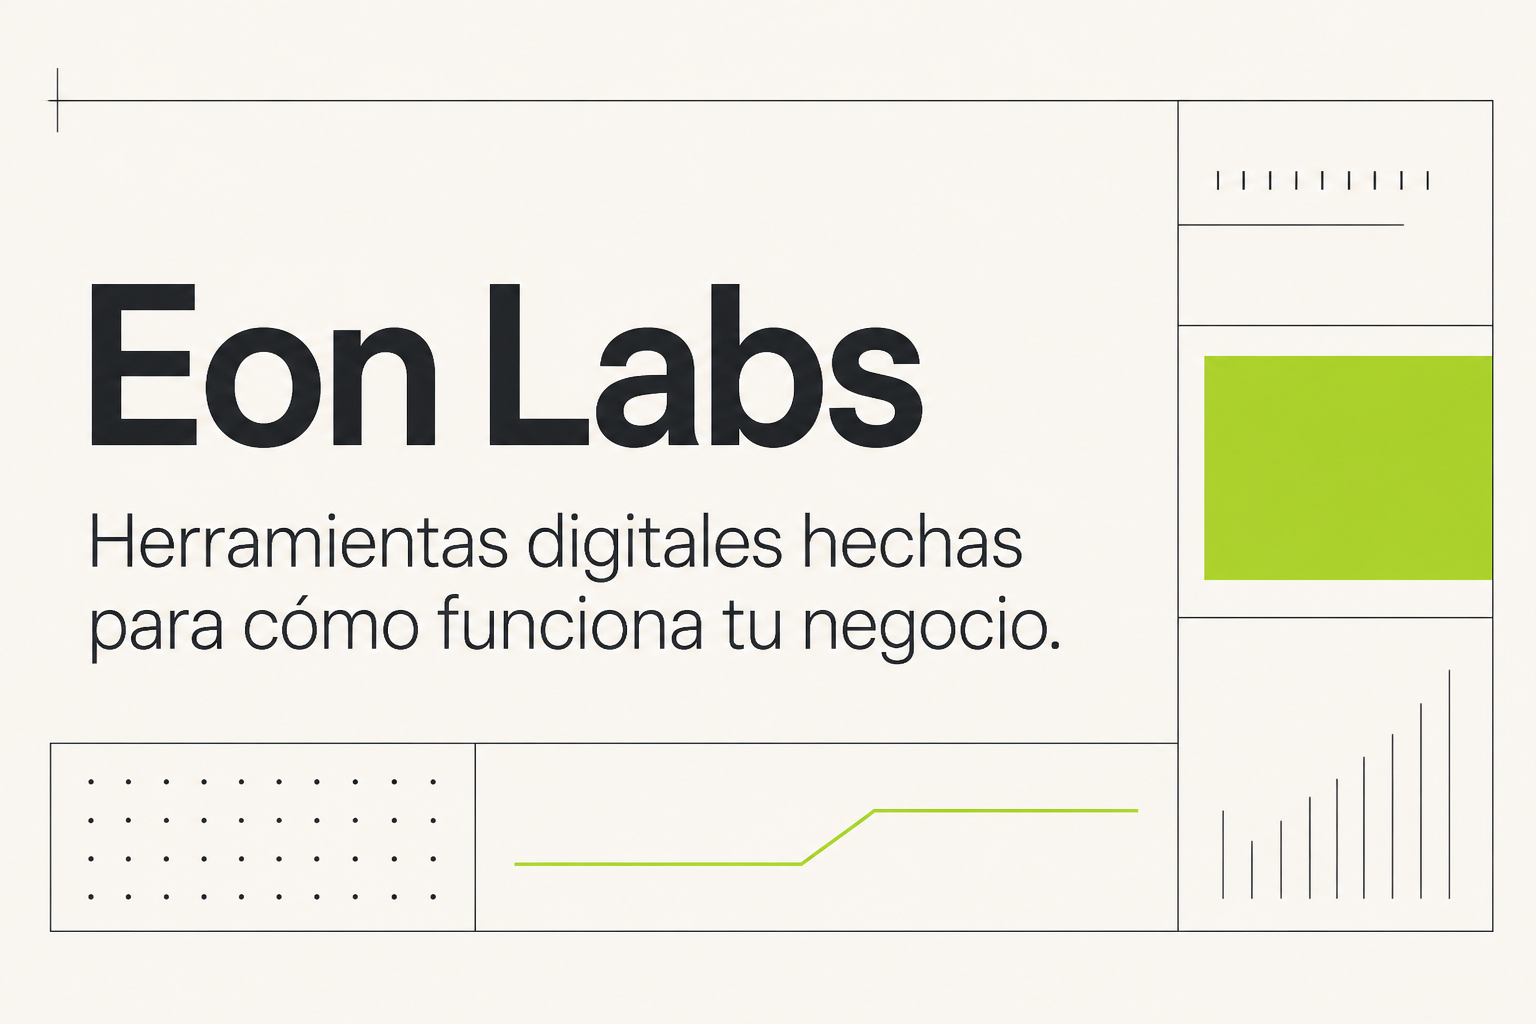
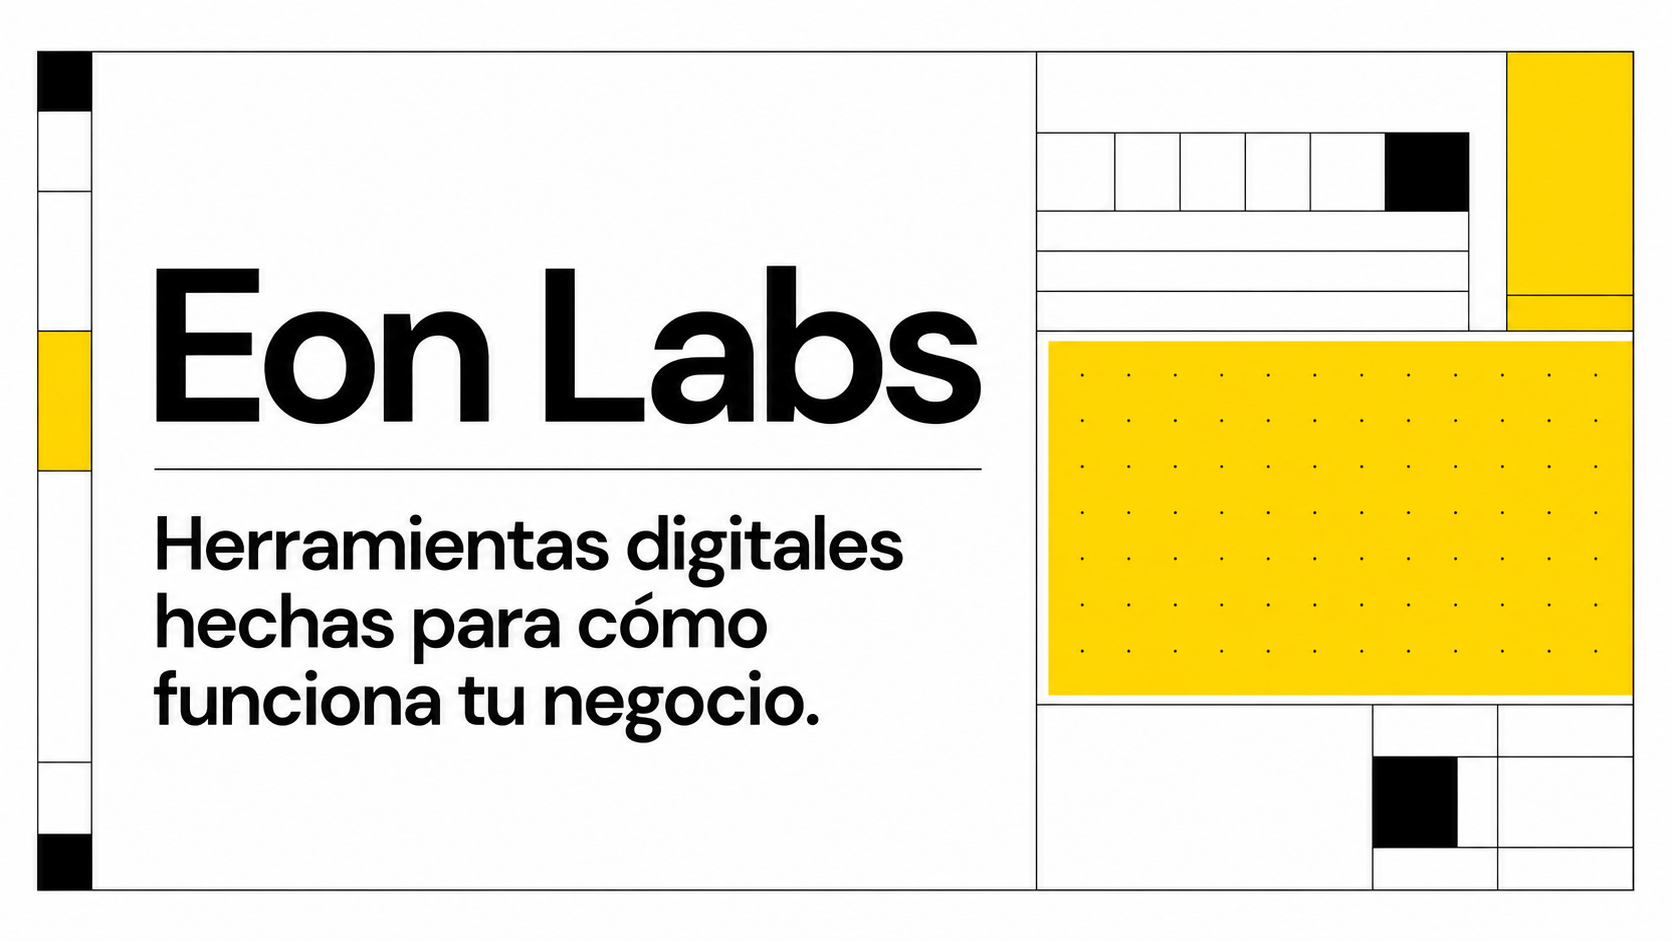
Refine Eon Labs visual system and messaging

diff --git a/frontend/src/pages/HomePage.tsx b/frontend/src/pages/HomePage.tsx
@@ -3,6 +3,7 @@ import { Link } from "react-router-dom";
 import { HeroPreview } from "../components/ProductPreview";
 import { ProjectCard } from "../components/ProjectCard";
 import { Seo } from "../components/Seo";
+import { siteConfig } from "../config";
 import { projects } from "../data/projects";
 
 const capabilities = [
@@ -14,9 +15,9 @@ const capabilities = [
 ] as const;
 
 const packages = [
-  { name: "Base", description: "Una herramienta concreta para resolver un problema definido.", need: "Cuando el alcance está claro", items: ["Primera versión útil", "Flujo principal", "Puesta en marcha"] },
-  { name: "Adaptado", description: "Partimos de una solución de Eon y la ajustamos al negocio.", need: "Cuando una demo se parece a lo que necesitas", items: ["Base existente", "Campos y etapas propias", "Ajustes al uso real"] },
-  { name: "A medida", description: "Entendemos el proceso y diseñamos una herramienta específicamente para él.", need: "Cuando el proceso necesita una solución propia", items: ["Descubrimiento del proceso", "Diseño específico", "Evolución por uso"] },
+  { name: "Base", description: "Partimos de un problema ya definido y construimos una herramienta concreta para resolverlo.", need: "Un problema ya definido", items: ["Primera versión útil", "Flujo principal", "Puesta en marcha"] },
+  { name: "Adaptado", description: "Del demo a tu negocio.", need: "Una base que ya encaja", items: ["Base existente", "Campos y etapas propias", "Ajustes al uso real"] },
+  { name: "A medida", description: "Entendemos el proceso a detalle y construimos en base a ello.", need: "Un proceso propio", items: ["Descubrimiento del proceso", "Diseño específico", "Evolución por uso"] },
 ];
 
 export function HomePage() {
@@ -29,19 +30,19 @@ export function HomePage() {
       </div><HeroPreview/>
     </section>
     <section className="section-pad section-block">
-      <div className="section-heading split-heading"><div><p className="eyebrow">SHOWROOM · DEMOS EON</p><h2>Interfaces concretas.<br/>Problemas reconocibles.</h2></div><div><p>No necesitas saber qué software pedir. Empieza por una herramienta parecida a lo que hoy organizas entre Excel, WhatsApp, notas y memoria.</p><Link className="text-link" to="/showroom">Ver todo el showroom</Link></div></div>
+      <div className="section-heading split-heading"><div><p className="eyebrow">SHOWROOM</p><h2>Showroom de servicios.</h2></div><div><p>No necesitas saber qué software pedir. Empieza por una herramienta parecida a lo que hoy organizas entre Excel, WhatsApp, notas y memoria.</p><Link className="text-link" to="/showroom">Ver todo el showroom</Link></div></div>
       <div className="project-grid bento-grid">{projects.slice(0, 4).map((project, index) => <ProjectCard key={project.slug} project={project} featured={index === 0}/>)}</div>
     </section>
     <section id="soluciones" className="section-pad section-block">
       <div className="section-heading"><p className="eyebrow">QUÉ PODEMOS CONSTRUIR</p><h2>Capacidades para ordenar, conectar y hacer avanzar el trabajo.</h2></div>
       <div className="capability-grid">{capabilities.map(([Icon, title, text], index) => <article key={title}><span className="cap-number">{String(index + 1).padStart(2, "0")}</span><Icon/><h3>{title}</h3><p>{text}</p></article>)}</div>
     </section>
-    <section id="proceso" className="dark-section"><div className="section-pad section-block"><div className="section-heading split-heading"><div><p className="eyebrow">CÓMO TRABAJAMOS</p><h2>De un proceso difuso a una herramienta útil.</h2></div><p>Partimos de cómo funciona el negocio ahora y construimos solo lo que merece existir.</p></div>
-      <ol className="process-list">{["Entendemos cómo trabajas", "Definimos qué vale la pena construir", "Creamos una primera versión", "La adaptamos al uso real"].map((item, index) => <li key={item}><span>{String(index + 1).padStart(2, "0")}</span><strong>{item}</strong></li>)}</ol><Link className="button button-light" to="/como-trabajamos">Ver el proceso <ArrowRight size={17}/></Link>
+    <section id="proceso" className="dark-section"><div className="section-pad section-block"><div className="section-heading split-heading"><div><p className="eyebrow">OPERACIÓN DE TRABAJO</p><h2>Un sistema operativo para construir, probar y mejorar.</h2></div><p>Trabajamos sobre procesos, responsables, datos y criterios claros. Cada ciclo deja una versión utilizable y decisiones documentadas.</p></div>
+      <ol className="process-list">{["Mapeamos el flujo actual", "Priorizamos el cuello de botella", "Ponemos una versión en operación", "Medimos, ajustamos y documentamos"].map((item, index) => <li key={item}><span>{String(index + 1).padStart(2, "0")}</span><strong>{item}</strong></li>)}</ol><Link className="button button-light" to="/como-trabajamos">Ver la operación <ArrowRight size={17}/></Link>
     </div></section>
-    <section id="paquetes" className="section-pad section-block"><div className="section-heading"><p className="eyebrow">FORMAS DE EMPEZAR</p><h2>El enfoque depende del problema, no de un plan cerrado.</h2><p>Sin precios prefabricados. Primero entendemos el alcance y recomendamos una forma de trabajo.</p></div>
+    <section id="paquetes" className="section-pad section-block"><div className="section-heading"><p className="eyebrow">PLANES DE TRABAJO</p><h2>Planes de trabajo.</h2></div>
       <div className="package-grid">{packages.map((item) => <article key={item.name} className="package-card"><span className="category-badge">{item.need}</span><h3>{item.name}</h3><p>{item.description}</p><ul>{item.items.map((feature) => <li key={feature}><CheckCircle2/>{feature}</li>)}</ul><Link className="card-link" to={`/empezar?paquete=${encodeURIComponent(item.name.toLowerCase())}`}>Empezar por aquí <ArrowRight size={16}/></Link></article>)}</div>
     </section>
-    <section className="final-cta section-pad"><p className="eyebrow">PRIMER PASO</p><h2>¿Tienes un proceso que todavía depende de Excel, WhatsApp o memoria?</h2><div className="button-row"><Link className="button button-accent" to="/empezar">Cuéntanos cómo trabajas <ArrowRight size={18}/></Link><Link className="text-link" to="/empezar">Prefiero empezar con un brief</Link></div></section>
+    <section className="final-cta section-pad"><p className="eyebrow">PRIMER PASO</p><h2>¿Te interesa empezar a colaborar?</h2><div className="button-row"><Link className="button button-accent" to="/empezar">Cuéntanos cómo trabajas <ArrowRight size={18}/></Link>{siteConfig.whatsappNumber ? <a className="text-link" href={`https://wa.me/${siteConfig.whatsappNumber}?text=${encodeURIComponent("Hola Eon Labs. Me interesa empezar a colaborar.")}`}>Hablar por WhatsApp</a> : <Link className="text-link" to="/empezar?canal=whatsapp">Hablar por WhatsApp</Link>}</div></section>
   </>;
 }

diff --git a/frontend/src/styles.css b/frontend/src/styles.css
@@ -22,3 +22,16 @@
 @media(max-width:1080px){.capability-grid{grid-template-columns:repeat(3,1fr)}.intake-shell{gap:40px}.detail-content .detail-lead{grid-template-columns:1fr}.site-footer{grid-template-columns:1fr 1fr}.site-footer>div:first-child{grid-column:1/-1}}
 @media(max-width:800px){.section-block{padding-top:72px;padding-bottom:72px}.split-heading,.detail-content,.intake-shell{grid-template-columns:1fr;gap:24px}.project-grid,.showroom-grid,.package-grid,.related-grid{grid-template-columns:1fr}.bento-grid .featured-card{grid-column:auto}.capability-grid{grid-template-columns:repeat(2,1fr)}.process-list{grid-template-columns:1fr 1fr}.compact-cta{align-items:flex-start;flex-direction:column;padding:36px}.detail-heading{align-items:flex-start;flex-direction:column;margin-top:40px}.detail-content .detail-lead,.two-column-info{grid-template-columns:1fr}.detail-content>article{min-height:auto;padding:48px 0;border-right:0}.two-column-info{gap:32px}.intake-aside{position:static}.intake-aside .eyebrow{margin-top:40px}.wizard-card{min-height:auto}.site-footer{grid-template-columns:1fr 1fr}.footer-bottom{flex-direction:column}.solution-list article,.work-steps article{grid-template-columns:55px 1fr}.package-note p{display:block;margin:10px 0}.final-cta{padding:48px 32px}}
 @media(max-width:640px){.section-heading h2,.page-hero h1{font-size:40px}.hero h1{font-size:46px}.project-card{padding:18px}.project-card .product-window{margin-left:-4px;margin-right:-4px}.capability-grid{grid-template-columns:1fr}.capability-grid article{min-height:170px}.process-list{grid-template-columns:1fr}.process-list li{min-height:140px}.site-footer{grid-template-columns:1fr}.site-footer>div:first-child{grid-column:auto}.site-footer nav{padding-top:20px;border-top:1px solid var(--line)}.footer-bottom{grid-column:auto}.page-hero{padding-top:72px;padding-bottom:48px}.detail-heading h1{font-size:48px}.detail-content h2{font-size:30px}.intake-shell{padding-top:36px}.intake-aside h1{font-size:44px}.wizard-card{padding:24px}.wizard-card legend,.review h2{font-size:28px}.choice-grid{grid-template-columns:1fr}.solution-list article,.work-steps article{grid-template-columns:1fr;gap:12px}.solution-list h2,.work-steps h2{font-size:27px}.compact-cta{margin-bottom:72px}.final-cta{margin-bottom:72px}}
+
+/* Eon Labs colorway: blanco, negro y amarillo */
+:root{--bg:#fff;--surface:#fff;--ink:#050505;--muted:#5c5c5c;--line:#d9d9d4;--accent:#ffd400;--accent-dark:#050505;--shadow:0 16px 40px rgba(0,0,0,.07);font-family:"DM Sans","Segoe UI",Arial,sans-serif}
+.eyebrow,.window-bar>span,.mini-stats small,.next-step small,.window-foot,.category-badge,.demo-label,.cap-number,.process-list span,.solution-list article>span,.work-steps article>span,.step-label,.review article small,.message-preview textarea{font-family:"DM Sans","Segoe UI",Arial,sans-serif}
+.site-header{background:rgba(255,255,255,.95)}
+.hero h1 em{color:var(--ink);box-shadow:inset 0 -.2em var(--accent)}
+.hero-proof,.eyebrow{color:#4d4d4d}.hero-proof svg,.package-card li svg{color:var(--ink)}
+.product-window{border-color:var(--line)}.window-bar{background:#050505}.window-bar>span{background:var(--accent);color:#050505}
+.window-bar,.window-toolbar{border-color:var(--line)}.window-toolbar button{background:#fff3a6}.mini-stats{background:var(--line);border-color:var(--line)}.mini-stats div{background:#fff}.mini-stats small,.next-step small{color:#555}
+.data-row:hover,.data-row.selected{background:#fff9cf;border-color:#e8cf39}.avatar{background:#fff0a0}.status-dot{background:#f3f3f0;color:#333}.next-step{border-left-color:#050505;background:#fff8c7}
+.category-badge{background:#fff0a0;color:#050505}.demo-label{color:#333}.project-card:hover{border-color:#050505}.tag-row span{color:#333}
+.dark-section{background:#050505;color:#fff}.dark-section .eyebrow,.dark-section .section-heading p{color:#d5d5d5}.process-list{border-color:#3d3d3d}.process-list li{border-color:#3d3d3d}.process-list span{color:var(--accent)}
+.final-cta{background:var(--accent)}.package-note{border-left-color:#050505;background:#fff8c7}.progress-track{background:#e6e6e0}.choice.selected{background:#fff9cf}.config-warning{border-color:#d0a900;background:#fff8c7}.config-warning p{color:#5d4b00}

diff --git a/frontend/src/pages/ContentPages.tsx b/frontend/src/pages/ContentPages.tsx
@@ -18,20 +18,20 @@ export function SolutionsPage() {
 
 export function ProcessPage() {
   const steps = [
-    ["01", "Entendemos el negocio y el proceso actual", "Vemos qué ocurre hoy, quién participa y dónde se pierde tiempo o información."],
-    ["02", "Identificamos el problema concreto", "Acotamos la dificultad que merece resolverse antes de hablar de funcionalidades."],
-    ["03", "Definimos la primera versión útil", "Elegimos el recorrido mínimo que ya mejora el trabajo."],
-    ["04", "Construimos y mostramos", "La interfaz aparece pronto para validar decisiones con algo tangible."],
-    ["05", "Observamos el uso real", "Revisamos cómo encaja en el día a día, sin asumir que el primer diseño es definitivo."],
-    ["06", "Adaptamos lo necesario", "Ajustamos campos, reglas y pasos a partir de evidencia de uso."],
+    ["01", "Mapeamos el flujo actual", "Identificamos entradas, responsables, decisiones, herramientas y salidas del proceso."],
+    ["02", "Definimos el cuello de botella", "Priorizamos el punto operativo que más tiempo, errores o falta de visibilidad genera."],
+    ["03", "Diseñamos el flujo objetivo", "Acordamos estados, datos, responsabilidades y criterios antes de construir."],
+    ["04", "Ponemos una versión en operación", "Entregamos un recorrido utilizable y lo incorporamos al trabajo cotidiano."],
+    ["05", "Revisamos datos y uso", "Observamos qué se usa, qué se atasca y qué decisiones necesita el equipo."],
+    ["06", "Ajustamos y documentamos", "Mejoramos la herramienta y dejamos reglas operativas claras para el siguiente ciclo."],
   ];
   return <><Seo title="Cómo trabajamos | Eon Labs" description="Un proceso directo para entender, construir y adaptar herramientas digitales operativas." path="/como-trabajamos"/><section className="page-hero section-pad"><p className="eyebrow">CÓMO TRABAJAMOS</p><h1>Construimos cerca del proceso real.</h1><p>Podemos partir de una solución existente de Eon o diseñar una herramienta específica.</p></section><section className="section-pad work-steps">{steps.map(([number, title, text]) => <article key={number}><span>{number}</span><div><h2>{title}</h2><p>{text}</p></div></article>)}</section><section className="compact-cta section-pad"><div><p className="eyebrow">EMPEZAR</p><h2>El primer brief nos ayuda a entender el contexto.</h2></div><Link className="button button-dark" to="/empezar">Empezar proyecto <ArrowRight size={17}/></Link></section></>;
 }
 
 const packageData = [
-  ["Base", "Una herramienta concreta para resolver un problema definido.", "Cuando el alcance está claro.", ["Un recorrido principal", "Datos y estados necesarios", "Primera versión para usar"]],
-  ["Adaptado", "Partimos de una solución existente de Eon y la ajustamos al negocio.", "Cuando una demo se parece a la necesidad.", ["Estructura probada", "Campos y etapas propias", "Ajustes al uso real"]],
-  ["A medida", "Entendemos el proceso y diseñamos una herramienta específicamente para él.", "Cuando el proceso necesita una solución propia.", ["Descubrimiento del proceso", "Diseño específico", "Evolución por uso"]],
+  ["Base", "Partimos de un problema ya definido y construimos una herramienta concreta para resolverlo.", "Un problema ya definido.", ["Un recorrido principal", "Datos y estados necesarios", "Primera versión para usar"]],
+  ["Adaptado", "Del demo a tu negocio.", "Una base que ya encaja.", ["Estructura probada", "Campos y etapas propias", "Ajustes al uso real"]],
+  ["A medida", "Entendemos el proceso a detalle y construimos en base a ello.", "Un proceso propio.", ["Descubrimiento del proceso", "Diseño específico", "Evolución por uso"]],
 ] as const;
 
 export function PackagesPage() {

diff --git a/frontend/index.html b/frontend/index.html
@@ -3,7 +3,7 @@
   <head>
     <meta charset="UTF-8" />
     <meta name="viewport" content="width=device-width, initial-scale=1.0" />
-    <meta name="theme-color" content="#f3f3ef" />
+    <meta name="theme-color" content="#ffffff" />
     <link rel="icon" href="/favicon.svg" type="image/svg+xml" />
     <meta name="description" content="Herramientas digitales y software operativo adaptados a pequeñas empresas y profesionales." />
     <meta property="og:title" content="Eon Labs — Herramientas digitales operativas" />

diff --git a/frontend/src/main.tsx b/frontend/src/main.tsx
@@ -2,6 +2,10 @@ import { StrictMode } from "react";
 import { createRoot } from "react-dom/client";
 import { BrowserRouter } from "react-router-dom";
 import { App } from "./App";
+import "@fontsource/dm-sans/400.css";
+import "@fontsource/dm-sans/500.css";
+import "@fontsource/dm-sans/600.css";
+import "@fontsource/dm-sans/700.css";
 import "./styles.css";
 
 createRoot(document.getElementById("root")!).render(
